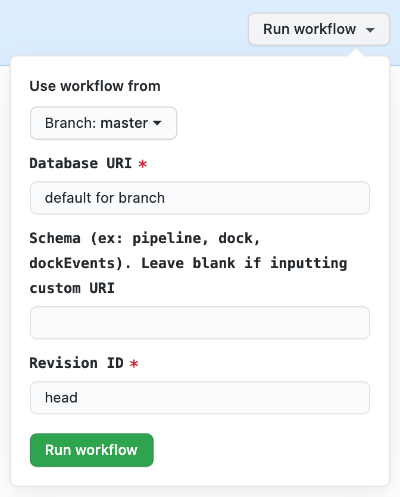
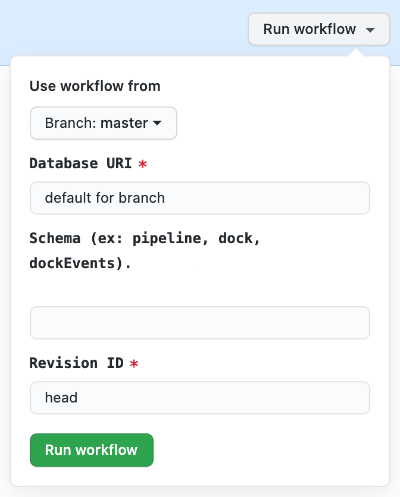
pass vars using command line

Changed region(s): [[0.33, 0.5131, 0.87, 0.5433], [0.06, 0.5433, 0.3, 0.6036]]

diff --git a/.github/alembic_revisions.py b/.github/alembic_revisions.py
@@ -1,6 +1,7 @@
 import os
 import re
 import subprocess
+import sys
 from enum import Enum
 
 class Direction(Enum):
@@ -31,11 +32,11 @@ def run(cmd):
 
 def load_inputs():
     """
-        Read the inputs from environemnt variables set by the GitHub workflow
+        Read the inputs from command line args passed by the GitHub workflow
     """
-    INPUT_DATABASE_URI = os.environ.get('INPUT_DATABASE_URI')
-    INPUT_REVISION_ID = os.environ.get('INPUT_REVISION_ID')
-    print(INPUT_DATABASE_URI, INPUT_REVISION_ID)
+    INPUT_DATABASE_URI = sys.argv[1]
+    INPUT_REVISION_ID = sys.argv[2]
+    os.environ['INPUT_DATABASE_URI'] = INPUT_DATABASE_URI
     return INPUT_DATABASE_URI, INPUT_REVISION_ID
 
 def parse_INPUT_DATABASE_URI_to_get_database_and_subaccount(INPUT_DATABASE_URI):
@@ -58,7 +59,7 @@ def parse_INPUT_DATABASE_URI_to_get_database_and_subaccount(INPUT_DATABASE_URI):
         , re.X)
     m = pattern.match(INPUT_DATABASE_URI)
     if not m:
-        raise Exception('Schema is unspedified; Database URI is invalid')
+        raise Exception('Database URI is invalid')
     components = m.groupdict()
     host = components['host']
     INPUT_DATABASE_URI

diff --git a/.github/alembic_migrations.md b/.github/alembic_migrations.md
@@ -3,8 +3,8 @@
 ## How to use
 1. Navigate to the Actions tab of the database_models repo [here](https://github.com/strongarm-tech/database_models/actions).
 2. Under All workflows, select Alembic Migrations, and click the Run workflow dropdown.
-3. In the first input, specify the appropriate database URI (with schema) only if it differs from the default for that branch.  Otherwise, leave as `default for branch`.  Refer to this [page](https://strongarm.atlassian.net/wiki/spaces/SPD/pages/1435369487/Segregated+Databases) for details.
-4. In the second input, specify the schema you are modifying.  This input is required if the above input is left as `default for branch`.  Otherwise it is ignored.
+3. In the first input, specify the appropriate database URI only if it differs from the default for that branch.  Otherwise, leave as `default for branch`.  Refer to this [page](https://strongarm.atlassian.net/wiki/spaces/SPD/pages/1435369487/Segregated+Databases) for details.
+4. In the second input, specify the schema you are modifying.
 5. In the third input, specify the alembic revision ID you would like the database to have at completion.
 6. Click Run workflow
 
@@ -13,14 +13,13 @@
 
 ## Notes
 1. By default, selecting a branch will automatically determine the appropriate subaccount to run the migrations against.  Explicitly setting a database URI will override this default
-2. The schema field is required if Database URI field as left as default.  Otherwise, it is ignored and schema must be specified as part of the database URI.
-3. By default, the Revision ID is set to head, meaning that alembic should upgrade to the latest revision.
-4. The underlying Python script attempts to find out which alembic revision ID the database is currently at and, using the provided target Revision ID, will determine if an upgrade or downgrade is necessary.  It will then implement that change.
+2. By default, the Revision ID is set to head, meaning that alembic should upgrade to the latest revision.
+3. The underlying Python script attempts to find out which alembic revision ID the database is currently at and, using the provided target Revision ID, will determine if an upgrade or downgrade is necessary.  It will then implement that change.
 
 ## Common Errors
-1. ### `Schema is unspedified`
+1. ### `Database URI is invalid`
 
-   Explicitly specified database URI did not contain schema or schema left blank despite using default database URI
+   The Database URI did not have all the necessary parts and is therefore invalid.
 
 2. ### `Unknown database "<schema>"`
 
